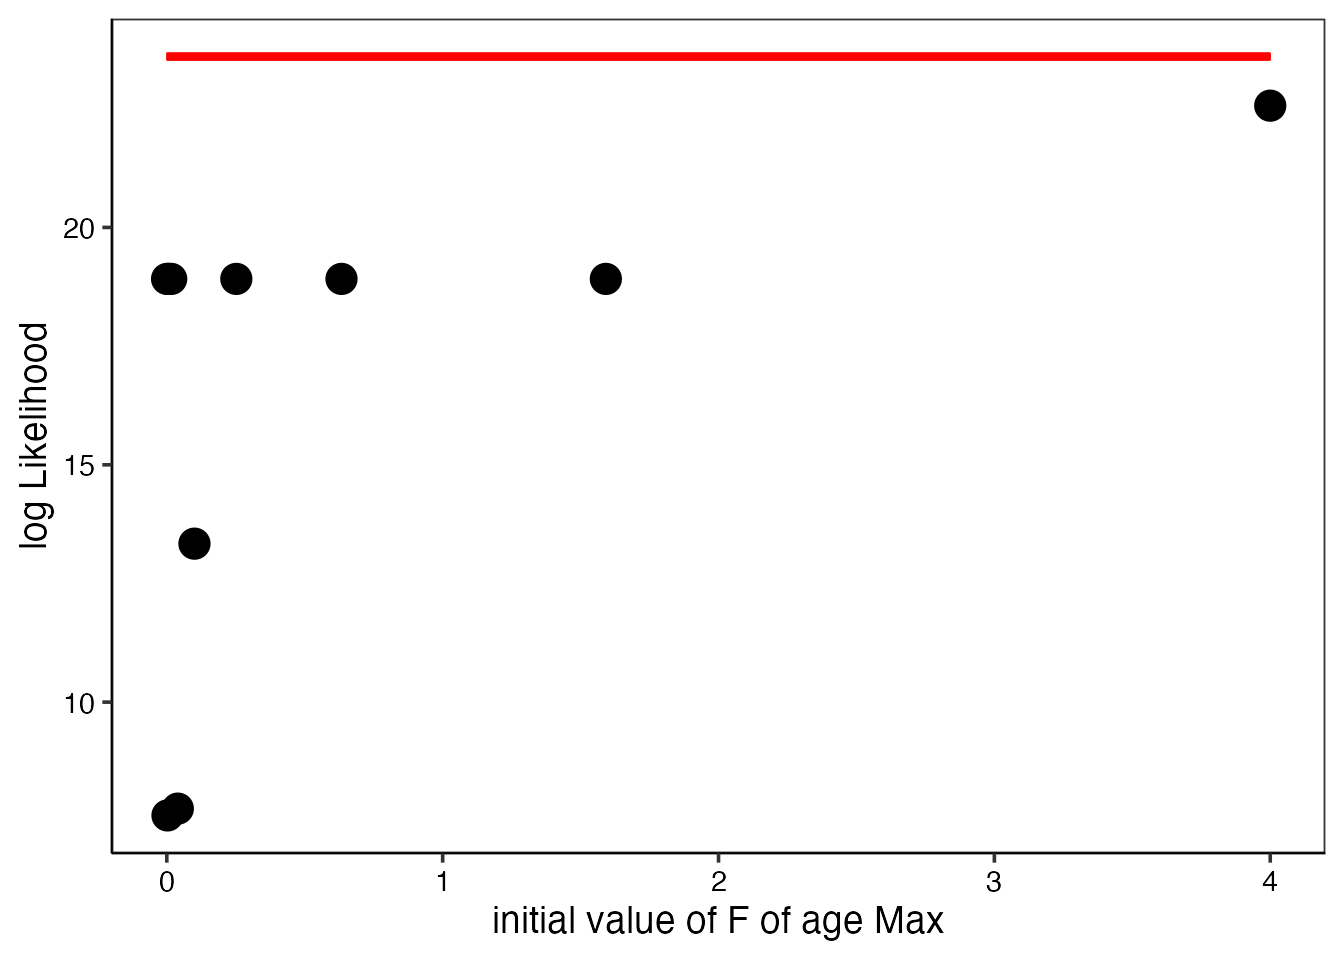
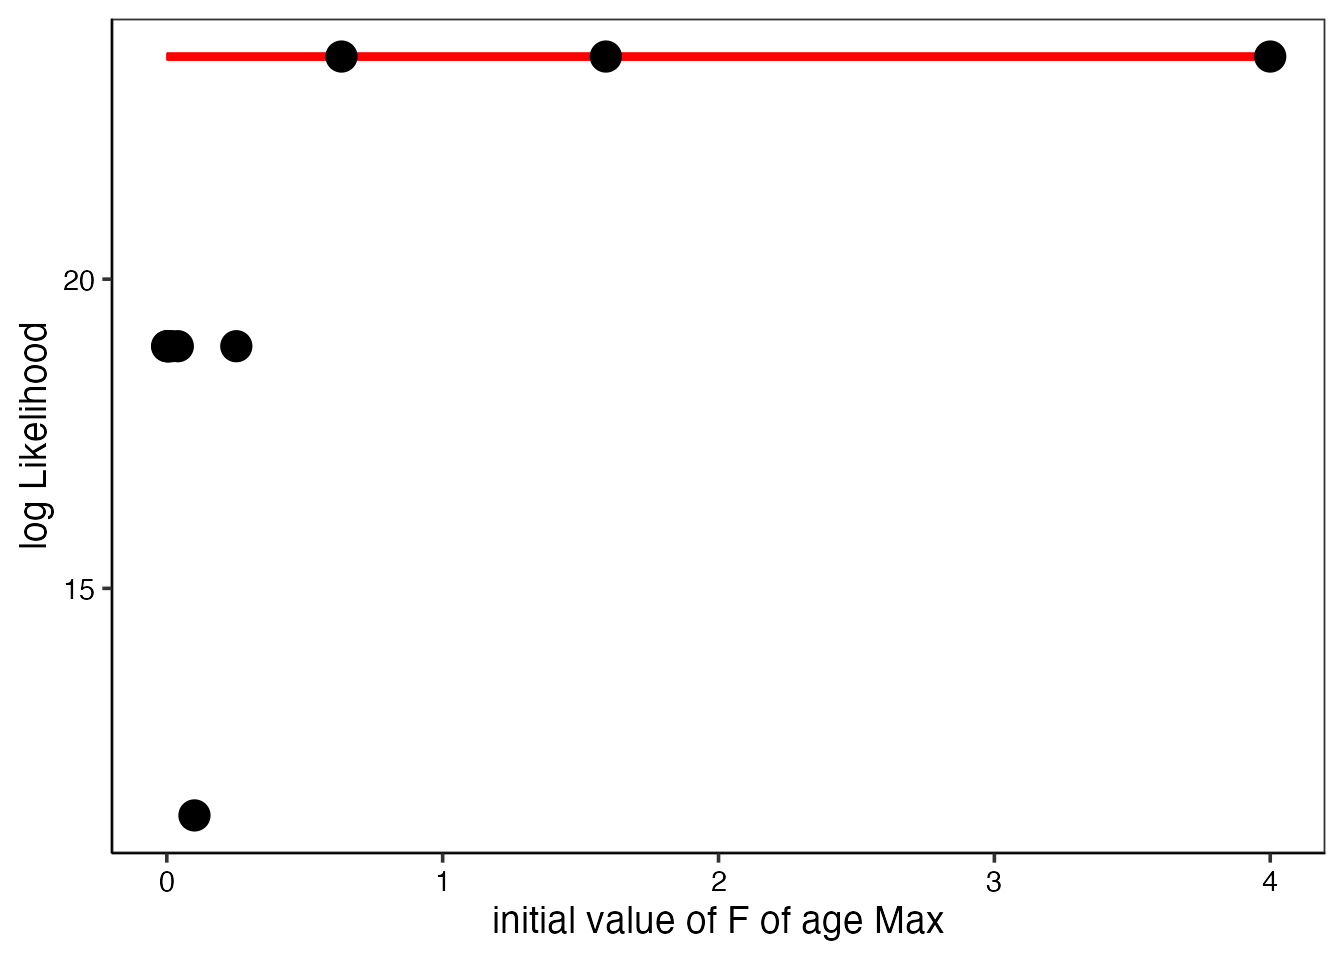
Built site for frasyr: 2.1.1.0@db99536

diff --git a/articles/Diagnostics-for-VPA.html b/articles/Diagnostics-for-VPA.html
@@ -430,7 +430,7 @@
 <p>を指定します。コマンドは以下の通りです。</p>
 <div class="sourceCode" id="cb25"><pre class="downlit">
 <span class="va">res_vpa_jitter</span> <span class="op">&lt;-</span> <span class="fu"><a href="../reference/do_estcheck_vpa.html">do_estcheck_vpa</a></span><span class="op">(</span><span class="va">res_vpa_estb</span>, n_ite<span class="op">=</span><span class="fl">10</span><span class="op">)</span></pre></div>
-<pre><code>Maximum likelihood in jitter analysis is:  22.5652 
+<pre><code>Maximum likelihood in jitter analysis is:  23.60018 
 Likelihood with estimated parameters is:  23.60018 </code></pre>
 <p>最初に引数で与えたVPA結果について、</p>
 <ul>
@@ -564,8 +564,8 @@ Likelihood with estimated parameters is:  23.60018 </code></pre>
 <span class="va">res_tmp</span> <span class="op">&lt;-</span> <span class="fu"><a href="https://rdrr.io/r/base/numeric.html">numeric</a></span><span class="op">(</span><span class="op">)</span>
 <span class="kw">for</span><span class="op">(</span><span class="va">i</span> <span class="kw">in</span> <span class="fl">1</span><span class="op">:</span><span class="fl">10</span><span class="op">)</span> <span class="va">res_tmp</span><span class="op">[</span><span class="va">i</span><span class="op">]</span> <span class="op">&lt;-</span> <span class="fu"><a href="https://rdrr.io/r/base/numeric.html">as.numeric</a></span><span class="op">(</span><span class="va">res_vpa_bootstrap</span><span class="op">$</span><span class="va">res_boot</span><span class="op">[[</span><span class="va">i</span><span class="op">]</span><span class="op">]</span><span class="op">$</span><span class="va">Fc.at.age</span><span class="op">[</span><span class="fl">4</span><span class="op">]</span><span class="op">)</span>
 <span class="fu"><a href="https://rdrr.io/r/stats/quantile.html">quantile</a></span><span class="op">(</span><span class="va">res_tmp</span>, probs <span class="op">=</span> <span class="fu"><a href="https://rdrr.io/r/base/c.html">c</a></span><span class="op">(</span><span class="fl">0.025</span>,<span class="fl">0.5</span>,<span class="fl">0.975</span><span class="op">)</span><span class="op">)</span></pre></div>
-<pre><code>     2.5%       50%     97.5% 
-0.4622295 3.5169313 7.6651582 </code></pre>
+<pre><code>        2.5%          50%        97.5% 
+   0.4485797    0.8147794 3590.6839402 </code></pre>
 <p>この他、各パラメータの相関関係について、ブートストラップ標本を基にプロットが得られます。</p>
 <div class="sourceCode" id="cb41"><pre class="downlit">
 <span class="va">res_vpa_bootstrap</span><span class="op">$</span><span class="va">plot_cor</span></pre></div>
